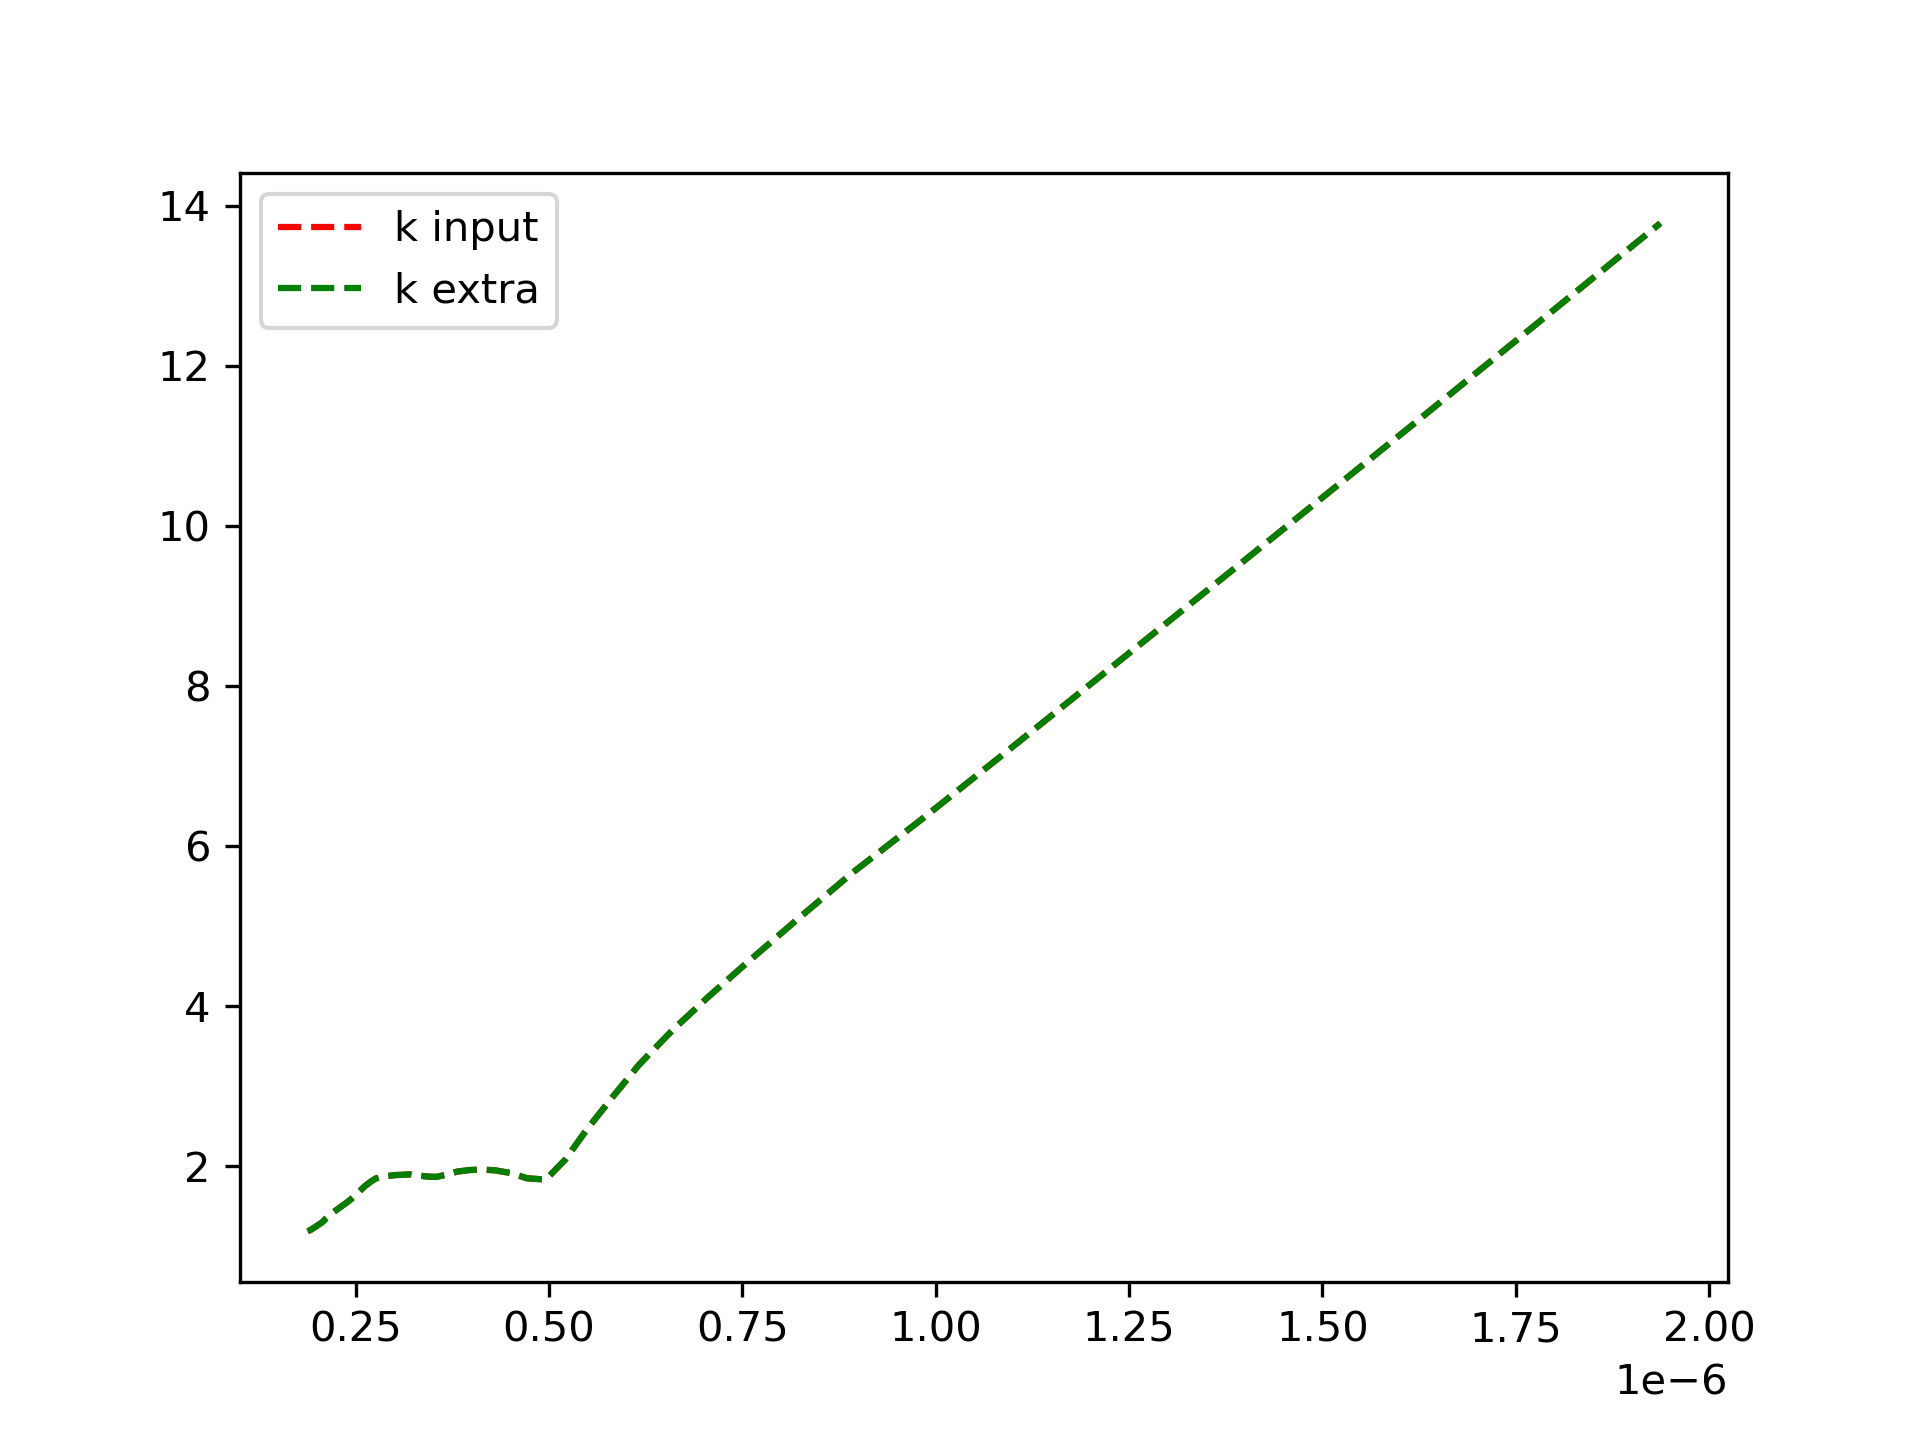
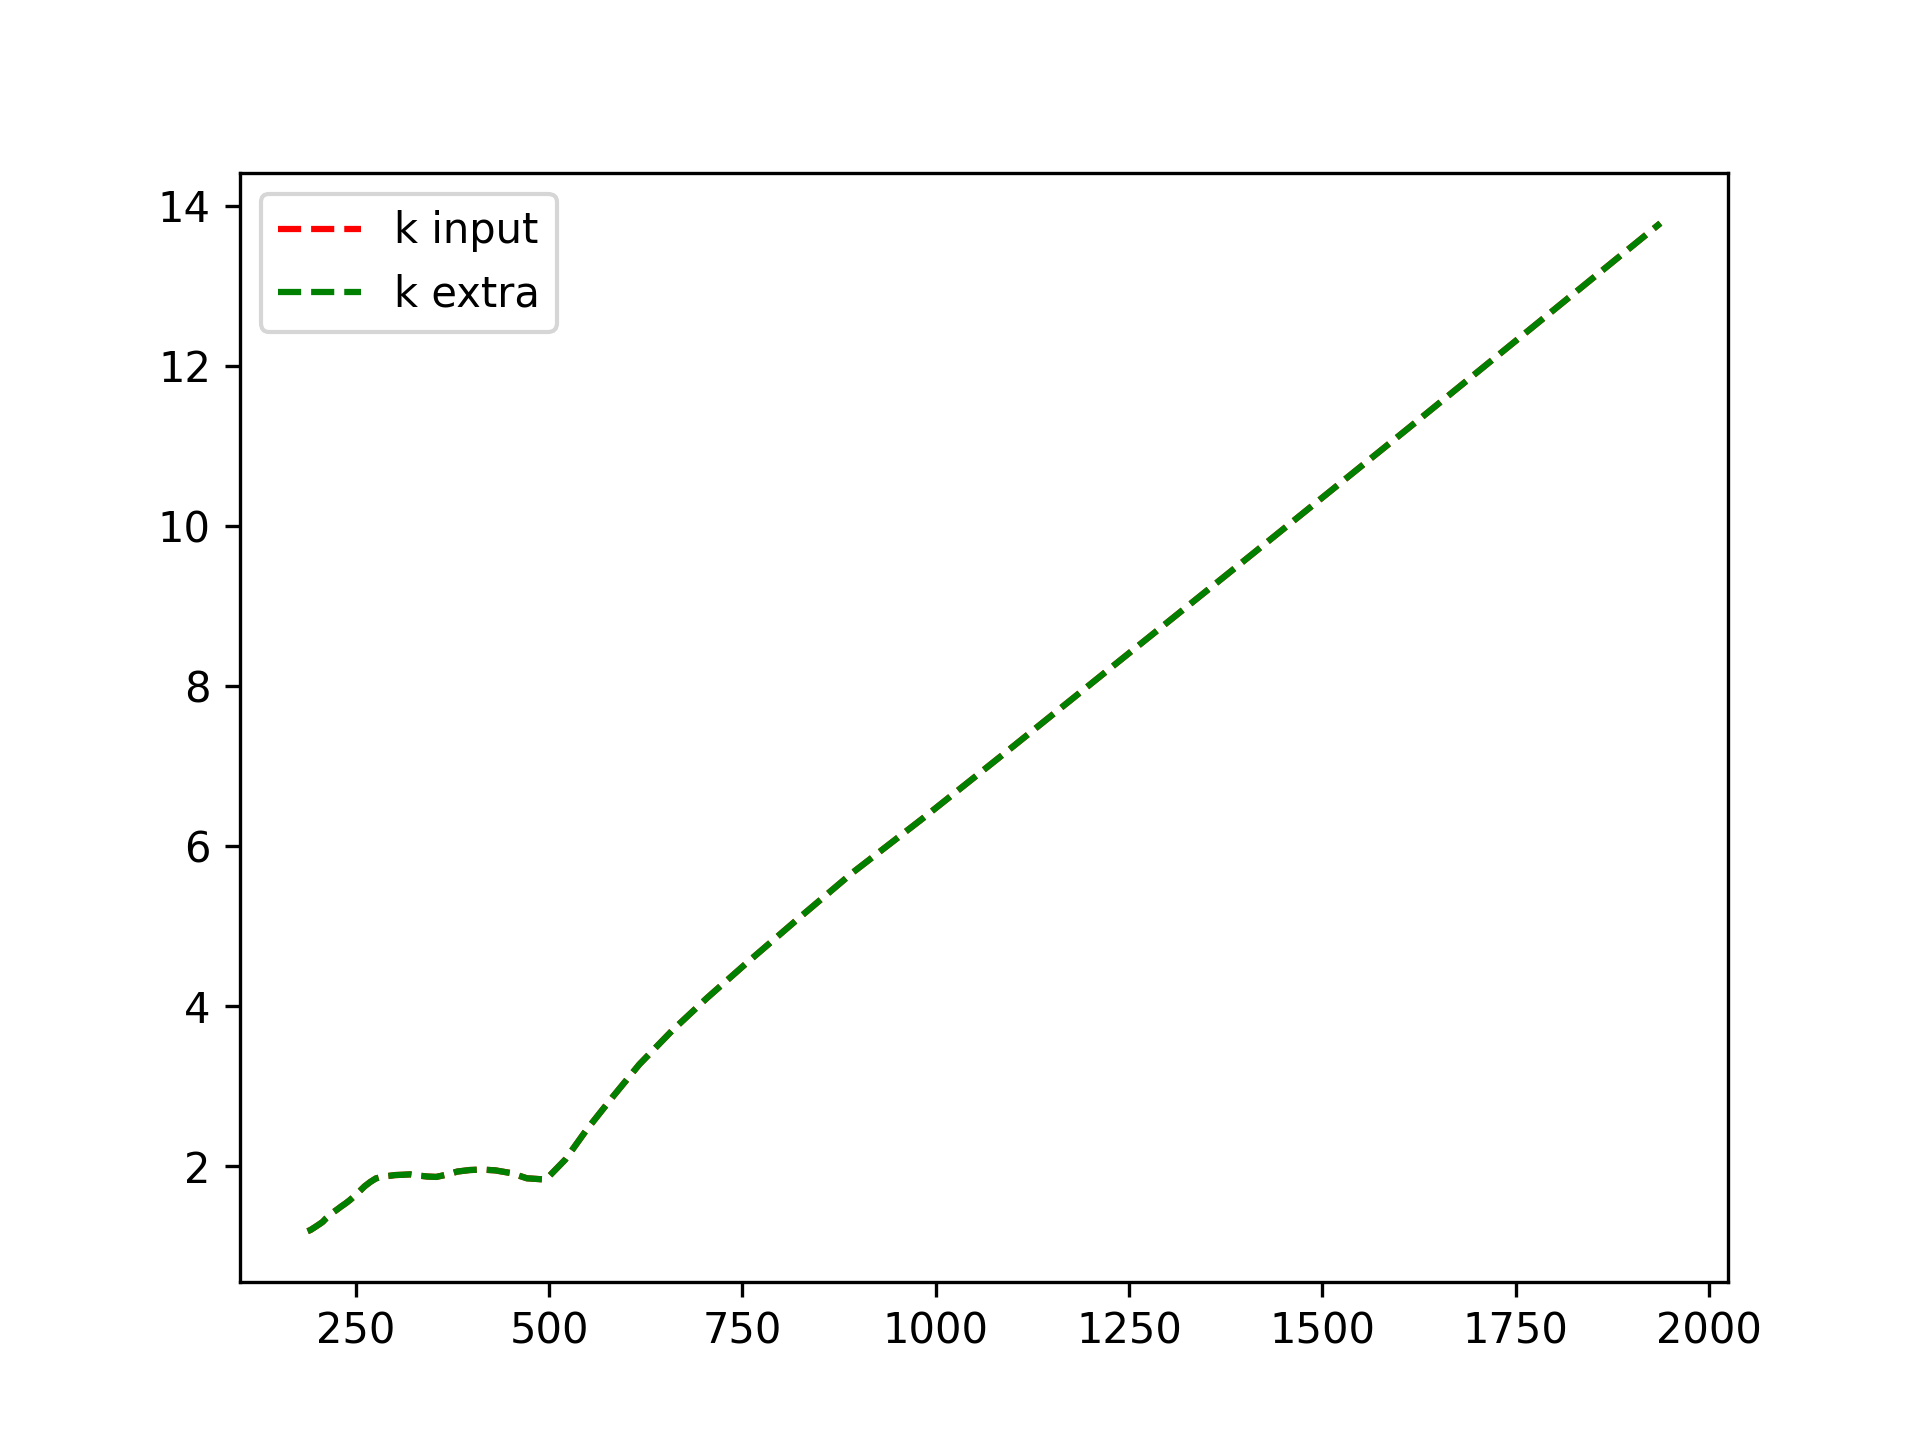
hey, new function

diff --git a/tools/functions_core_shell.py b/tools/functions_core_shell.py
@@ -6,13 +6,20 @@ from scipy.special import spherical_jn, spherical_yn
 import matplotlib.pyplot as plt
 from tools.functions import SphericalMie
 
-def a_Lb_L_core_shell(n, k, n_m, R):
+def a_Lb_L_core_shell(n, k, n_m, k_m, R):
     q = False
     filecounter = 0
     L = 1
     n_complex = n - 1j*k
-    m = n_complex[:, 1,filecounter]/n_m[:, 1, filecounter]
-    x = np.abs(1/n[:,0,filecounter])*R
+    n_m_complex = n_m - 1j*k_m
+    #print(f'n vanlig{n} n complex{n_complex}, k {k}')
+
+    m = n_m_complex[:, 1, filecounter]/n_complex[:, 1,filecounter]
+    kvec = (2*np.pi*n_complex[:,1,filecounter])/n[:,0,filecounter]
+
+    #print(f'k-vector absoluttverdi kvadrat {np.sqrt(np.real(kvec*np.conjugate(kvec)))} ')
+    #x = np.sqrt(np.real(kvec*np.conjugate(kvec)))*R
+    x = kvec*R
     a_Llist = []
     b_Llist = []
 
@@ -33,8 +40,8 @@ def a_Lb_L_core_shell(n, k, n_m, R):
         T_L0 = 0
         S_L0 = 0
 
-        T_L1 = -(m*jn_Lmx*(jnder_Lx+T_L0*ynder_Lx)-jnder_Lmx*(jn_Lx+T_L0*yn_Lx))/(m*yn_Lmx*(jnder_Lx+T_L0*ynder_Lx)-ynder_Lmx*(jn_Lx+T_L0*yn_Lx))
-        S_L1 = -(jn_Lmx*(jnder_Lx+S_L0*ynder_Lx)-m*jnder_Lmx*(jn_Lx+S_L0*yn_Lx))/(yn_Lmx*(jnder_Lx+S_L0*ynder_Lx)-m*ynder_Lmx*(jn_Lx+S_L0*yn_Lx))
+        #T_L1 = -(m*jn_Lmx*(jnder_Lx+T_L0*ynder_Lx)-jnder_Lmx*(jn_Lx+T_L0*yn_Lx))/(m*yn_Lmx*(jnder_Lx+T_L0*ynder_Lx)-ynder_Lmx*(jn_Lx+T_L0*yn_Lx))
+        #S_L1 = -(jn_Lmx*(jnder_Lx+S_L0*ynder_Lx)-m*jnder_Lmx*(jn_Lx+S_L0*yn_Lx))/(yn_Lmx*(jnder_Lx+S_L0*ynder_Lx)-m*ynder_Lmx*(jn_Lx+S_L0*yn_Lx))
         #print(f'first T{np.shape(T_L1)}')
 
         h = 1
@@ -46,12 +53,9 @@ def a_Lb_L_core_shell(n, k, n_m, R):
         #print(T_L)
         for i in range(h):
             #print('hola hoho')
+            #mer riktig
             T_L[i+1,:] = -(m*jn_Lmx*(jnder_Lx+T_L[i,:]*ynder_Lx)-jnder_Lmx*(jn_Lx+T_L[i,:]*yn_Lx))/(m*yn_Lmx*(jnder_Lx+T_L[i,:]*ynder_Lx)-ynder_Lmx*(jn_Lx+T_L[i,:]*yn_Lx))
-            #print(f'very good very nice{(T_L[i,:])}')
             S_L[i+1,:] = -(jn_Lmx*(jnder_Lx+S_L[i,:]*ynder_Lx)-m*jnder_Lmx*(jn_Lx+S_L[i,:]*yn_Lx))/(yn_Lmx*(jnder_Lx+S_L[i,:]*ynder_Lx)-m*ynder_Lmx*(jn_Lx+S_L[i,:]*yn_Lx))
-            #print(f'very good very nice S{S_L[i+1,:]}')
-        #T_L2 = -(m*jn_Lmx*(jnder_Lx+T_L1*ynder_Lx)-jnder_Lmx*(jn_Lx+T_L1*yn_Lx))/(m*yn_Lmx*(jnder_Lx+T_L1*ynder_Lx)-ynder_Lmx*(jn_Lx+T_L1*yn_Lx))
-        #S_L2 = -(jn_Lmx*(jnder_Lx+S_L1*ynder_Lx)-m*jnder_Lmx*(jn_Lx+S_L1*yn_Lx))/(yn_Lmx*(jnder_Lx+S_L1*ynder_Lx)-m*ynder_Lmx*(jn_Lx+S_L1*yn_Lx))
 
 
         #For for-loop
@@ -60,9 +64,7 @@ def a_Lb_L_core_shell(n, k, n_m, R):
         a_L = -(m*jn_Lmx*(jnder_Lx+T_L[s]*ynder_Lx)-jnder_Lmx*(jn_Lx+T_L[s]*yn_Lx))/(m*xin_Lmx*(jnder_Lx+T_L[s]*ynder_Lx)-xinder_Lmx*(jn_Lx+T_L[s]*yn_Lx))
         b_L = -(jn_Lmx*(jnder_Lx+S_L[s]*ynder_Lx)-m*jnder_Lmx*(jn_Lx+S_L[s]*yn_Lx))/(xin_Lmx*(jnder_Lx+S_L[s]*ynder_Lx)-m*xinder_Lmx*(jn_Lx+S_L[s]*yn_Lx))
 
-        #for calculating only one T value
-        #a_L = -(m*jn_Lmx*(jnder_Lx+T_L1*ynder_Lx)-jnder_Lmx*(jn_Lx+T_L1*yn_Lx))/(m*xin_Lmx*(jnder_Lx+T_L1*ynder_Lx)-xinder_Lmx*(jn_Lx+T_L1*yn_Lx))
-        #b_L = -(jn_Lmx*(jnder_Lx+S_L1*ynder_Lx)-m*jnder_Lmx*(jn_Lx+S_L1*yn_Lx))/(xin_Lmx*(jnder_Lx+S_L1*ynder_Lx)-m*xinder_Lmx*(jn_Lx+S_L1*yn_Lx))
+
 
         if any(np.isnan(a_L)) == True:
             q = True
@@ -70,11 +72,10 @@ def a_Lb_L_core_shell(n, k, n_m, R):
             q = True
         else:
             L += 1
-            print(L)
             a_Llist.append(a_L)
             b_Llist.append(b_L)
         a_L = np.asarray(a_Llist)
         b_L = np.asarray(b_Llist)
-        print(f'T{h} hmm{T_L[h,:]}')
-        print(f'S{h} hmm{S_L[:,h]}')
+        #print(f'T{h} hmm{T_L[h,:]}')
+        #print(f'S{h} hmm{S_L[:,h]}')
     return a_L, b_L, L

diff --git a/tools/functions.py b/tools/functions.py
@@ -3,8 +3,6 @@ import numpy as np
 import scipy.constants as spc
 from tools.misc import extrapolate, interpolate
 from scipy.special import spherical_jn, spherical_yn
-
-
 import matplotlib.pyplot as plt
 
 def Loadfile(file):
@@ -92,12 +90,13 @@ def SphericalMie(z, L):
 
     return riccarr_jn_data, riccarrder_jn_data, riccarr_yn_data, riccarrder_yn_data
 
-def a_Lb_L(n, k, n_m, R):
+def a_Lb_L(n, k, n_m, k_m,R):
     q = False
     filecounter = 0
     L = 1
     n_complex = n + 1j*k
-    m = n_complex[:, 1,filecounter]/n_m[:, 1, filecounter]
+    m =n_m[:, 1, filecounter]/ n_complex[:, 1,filecounter]
+
     x = np.abs(1/n[:,0,filecounter])*R
     a_Llist = []
     b_Llist = []
@@ -108,8 +107,9 @@ def a_Lb_L(n, k, n_m, R):
         jnder_Lx = SphericalMie(x,L)[1]
         yn_Lx = SphericalMie(x,L)[2]
         ynder_Lx = SphericalMie(x,L)[3]
-        nn_Lx = jn_Lx + 1j*yn_Lx
-        nnder_Lx = jnder_Lx + 1j*ynder_Lx
+
+        nn_Lx = jn_Lx - 1j*yn_Lx
+        nnder_Lx = jnder_Lx - 1j*ynder_Lx
 
         a_L = (m*jn_Lmx*jnder_Lx-jnder_Lmx*jn_Lx)/(m*jn_Lmx*nnder_Lx-jnder_Lmx*nn_Lx)
         b_L = (jn_Lmx*jnder_Lx-m*jnder_Lmx*jn_Lx)/(jn_Lmx*nnder_Lx-m*jnder_Lmx*nn_Lx)
@@ -124,22 +124,28 @@ def a_Lb_L(n, k, n_m, R):
         a_L = np.asarray(a_Llist)
         b_L = np.asarray(b_Llist)
 
+
     return a_L, b_L, L
 
 
-def crosss(a_L, b_L, L, n, Radius):
+def crosss(a_L, b_L, L, n, n_m, Radius):
     sigma_ext = 0
     sigma_sca = 0
-
+    #print(Radius)
+    #print(n[:,0, 0])
     for i in range(1,(L)):
         sigma_ext += (2*(i)+1)*(np.real(a_L[i-1]+b_L[i-1]))
         sigma_sca += (2*(i)+1)*(np.conjugate(a_L[i-1])*(a_L[i-1])+np.conjugate(b_L[i-1])*(b_L[i-1]))
+    #print(f' ext {sigma_ext}')
     geo_cross = np.pi*Radius**2
+    print(f'radius {Radius}')
+    #print(k)
+    kvec = np.abs((2*np.pi*n_m[:,1,0])/n_m[:,0,0])
     plt.figure(figsize = (15,5))
-    plt.plot(n[:,0, 0],(n[:,0,0]**2)/(geo_cross*2*np.pi)*sigma_ext,color="hotpink",linestyle='dashed',label = 'extinction')
-    plt.plot(n[:,0, 0],(n[:,0,0]**2)/(geo_cross*2*np.pi)*sigma_sca,color="plum",linestyle='dashed',label = 'scattering')
-    plt.plot(n[:,0, 0],(n[:,0,0]**2)/(geo_cross*2*np.pi)*(sigma_ext - sigma_sca) ,color="cornflowerblue",linestyle='dotted',label = 'absorption')
-    plt.xlabel(f'$\lambda [m]$')
+    plt.plot((spc.h*spc.c)/(n[:,0, 0]*spc.e),-2*np.pi/((kvec)**2*geo_cross)*sigma_ext,color="hotpink",linestyle='solid',label = 'extinction')
+    plt.plot((spc.h*spc.c)/(n[:,0, 0]*spc.e),2*np.pi/((kvec)**2*geo_cross)*np.real(sigma_sca),color="plum",linestyle='dashed',label = 'scattering')
+    plt.plot((spc.h*spc.c)/(n[:,0, 0]*spc.e),2*np.pi/((kvec)**2*geo_cross)*(sigma_ext - np.real(sigma_sca)) ,color="cornflowerblue",linestyle='dotted',label = 'absorption')
+    plt.xlabel(f'$Energi [eV]$')
     plt.ylabel('$ \dfrac{ \sigma }{ \sigma_{geo} }$')
     plt.legend()
     plt.show()

diff --git a/Core/CalculateMie.py b/Core/CalculateMie.py
@@ -1,5 +1,6 @@
 from tools.functions import Refractive_Index, SphericalMie, a_Lb_L, crosss
 from tools.misc import Input
+from tools.functions_core_shell import a_Lb_L_core_shell
 
 def Calculate_Individual():
 
@@ -10,5 +11,6 @@ def Calculate_Individual():
     k_particle[:,0,0] = k_particle[:,0,0]*1E-9
     n_matrix[:,0,0] = n_matrix[:,0,0]*1E-9
     k_matrix[:,0,0] = k_matrix[:,0,0]*1E-9
-    a_L, b_L, L = a_Lb_L(n_particle, k_particle, n_matrix, radius)
-    hei = crosss(a_L, b_L, L, n_particle ,radius)
+    a_L, b_L, L= a_Lb_L_core_shell(n_particle, k_particle, n_matrix, k_matrix, radius)
+    #a_L, b_L, L= a_Lb_L(n_particle, k_particle, n_matrix,radius)
+    hei = crosss(a_L, b_L, L, n_particle, n_matrix ,radius)

diff --git a/tools/misc.py b/tools/misc.py
@@ -30,6 +30,7 @@ def files_manager(Particles, Matrices):
         for file in input_files:
             name = file.split('\\')[-1]
             structure.append(name.split('_')[0])
+            #print(f'name fil {name}, structure {structure}')
 
         for Particle in Particles:
             index = structure.index(Particle)
@@ -104,7 +105,7 @@ def Input():
     eVmax = 3
     wl_step = 1
 
-    R = 100*1E-9
+    R = 70*1E-9
     Type = 'Sphere'
     Particles = ['Au']
 
